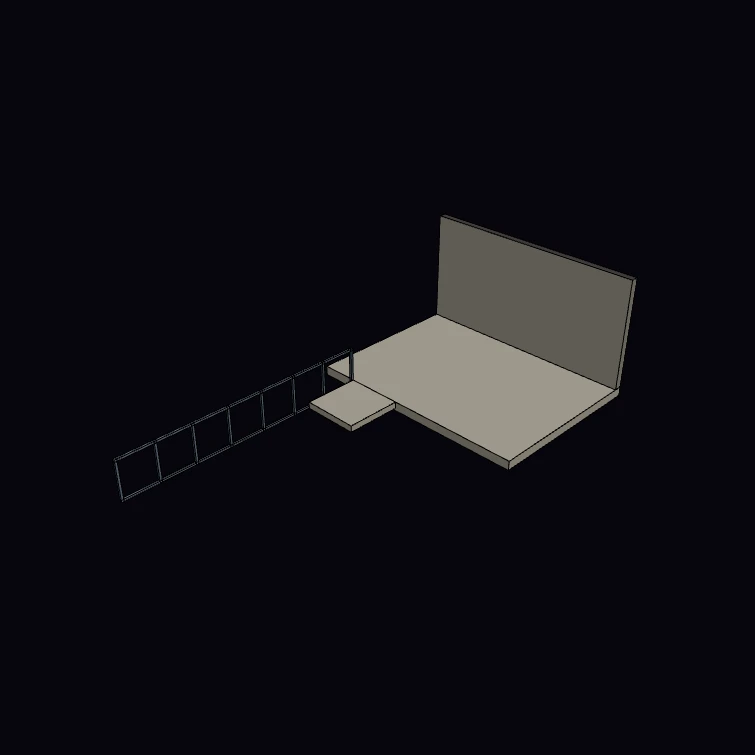
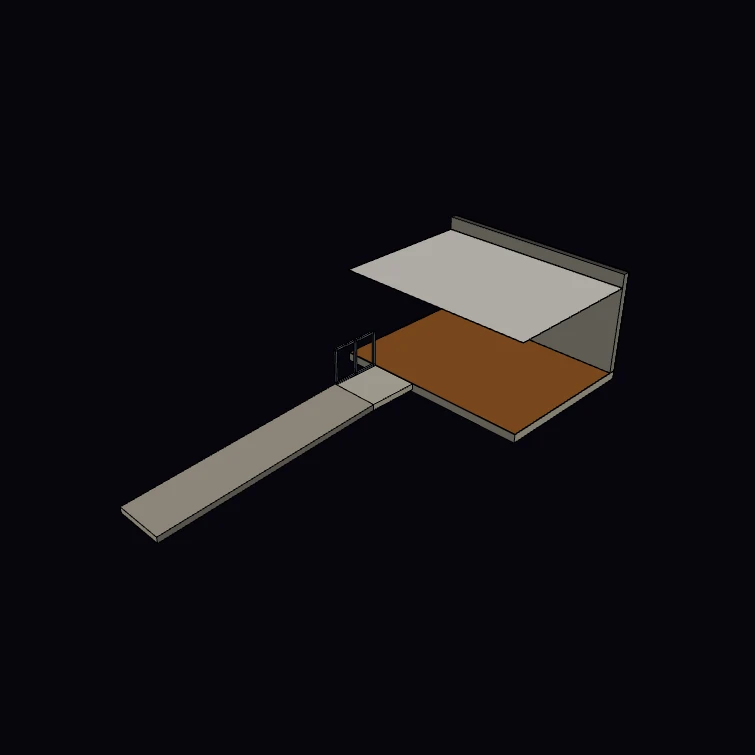
fix(playground): correct bim example element placements
Element thickness and width extrude along local +Y (axisZ x axisX), which
is world -X for Y-running elements. Three examples placed such elements
expecting +X:

- bim-spaces-zones: the studio divider wall sat inside Studio 01's space
  volume (z-fighting) leaving the 150 mm gap empty; moved to fill the gap.
- bim-finishes: the ramp ran beside its landing instead of onto it and
  climbed through the landing top; the horizontal guardrail floated above
  the sloped run; the flooring and ceiling coverings ran through the wall.
  Ramp now ends flush at the landing, the guardrail stands on the landing's
  open edge, and both coverings stop at the wall's inner face.
- bim-datacenter: the east wall sat inside the hall, clipped by the raised
  floor and the east CRAHs; moved outside the footprint with the base slab
  extended to carry both walls.

Also corrects the bim-space-volume comment that claimed side walls extrude
inward. Thumbnails and the datacenter turntable regenerated.

Changed region(s): [[0.1523, 0.2742, 0.853, 0.7311], [0.1523, 0.5788, 0.2132, 0.6093]]

diff --git a/apps/playground/src/lib/examples/bim.ts b/apps/playground/src/lib/examples/bim.ts
@@ -488,7 +488,9 @@ model.aggregate(building, storey);
 const L = 4000, W = 3000, H = 2700, T = 200;
 // A cutaway enclosure: three walls (back + two sides) with the front wall removed,
 // so the tinted space reads as a volume nested *inside* the room rather than a slab
-// floating on top. Each side wall extrudes its thickness inward (toward the room).
+// floating on top. Wall thickness extrudes along local +Y (= axisZ x axisX, which
+// is -X for the Y-running sides), placing all three interior faces flush with the
+// space at x = T, x = L - T and y = W - T.
 const wallDefs: { origin: [number, number, number]; axisX: [number, number, number]; len: number }[] = [
   { origin: [T, W - T, 0], axisX: [1, 0, 0], len: L - 2 * T }, // back, between the sides
   { origin: [T, 0, 0], axisX: [0, 1, 0], len: W },             // left side, full depth
@@ -1424,9 +1426,11 @@ for (const dept of departments) {
 }
 
 // Dividing walls between the studios and along the back, so the spaces read as
-// rooms rather than floating blocks.
+// rooms rather than floating blocks. Wall thickness extrudes along local +Y
+// (= axisZ x axisX, which is -X for the Y-running divider), so its origin sits
+// on the east edge of the 150 mm gap between the studios.
 for (const d of [
-  { origin: [5200, 0, 0] as [number, number, number], axisX: [0, 1, 0] as [number, number, number], len: 4800 },
+  { origin: [5350, 0, 0] as [number, number, number], axisX: [0, 1, 0] as [number, number, number], len: 4800 },
   { origin: [0, 4800, 0] as [number, number, number], axisX: [1, 0, 0] as [number, number, number], len: 10550 },
 ]) {
   const wall = model.addWall({
@@ -1556,10 +1560,11 @@ model.placeIn(wall.value, storeyId);
 
 // Three coverings, each a separate element with its own thickness and material:
 // the floor finish on top of the slab, the ceiling below the soffit, and
-// external cladding on the wall face.
+// external cladding on the wall face. Floor and ceiling stop at the wall's
+// inner face (width W - T) rather than running through the wall.
 const flooring = model.addCovering({
   length: L,
-  width: W,
+  width: W - T,
   thickness: 18,
   origin: [0, 0, RISE],
   axisX: [1, 0, 0],
@@ -1572,7 +1577,7 @@ model.placeIn(flooring.value, storeyId);
 
 const ceiling = model.addCovering({
   length: L,
-  width: W,
+  width: W - T,
   thickness: 12,
   origin: [0, 0, RISE + H - 400],
   axisX: [1, 0, 0],
@@ -1601,7 +1606,10 @@ if (!cladding.ok) throw cladding.error;
 model.placeIn(cladding.value, storeyId);
 
 // A 1:15 ramp reaching the threshold, plus its top landing. slope is rise over
-// run, so the run follows from the rise the ramp has to climb.
+// run, so the run follows from the rise the ramp has to climb. Flight width
+// extrudes along local +Y (= axisZ x axisX, -X for this Y-running flight), so
+// the origin sits on the ramp's east edge; the run ends where the landing
+// begins, meeting its top flush at z = RISE.
 const SLOPE = 1 / 15;
 const RUN = RISE / SLOPE;
 const ramp = model.addRamp({
@@ -1614,7 +1622,7 @@ const ramp = model.addRamp({
       length: RUN,
       slope: SLOPE,
       thickness: 180,
-      origin: [1000, -RUN, 0],
+      origin: [2500, -RUN - 1500, 0],
       axisX: [0, 1, 0],
       axisZ: [0, 0, 1],
       materialName: 'Concrete',
@@ -1638,12 +1646,14 @@ const landing = model.addSlab({
 if (!landing.ok) throw landing.error;
 model.placeIn(landing.value, storeyId);
 
-// A posted guardrail along the open edge of the ramp run.
+// A posted guardrail on the landing's open west edge. Railings are horizontal
+// bodies, so the sloped run itself stays unrailed (the switchback-stair example
+// rails only its flat landing for the same reason).
 const rail = model.addRailing({
-  length: RUN,
+  length: 1500,
   height: 1100,
   thickness: 60,
-  origin: [1000, -RUN, RISE - 180],
+  origin: [1060, -1500, RISE],
   axisX: [0, 1, 0],
   axisZ: [0, 0, 1],
   predefinedType: 'GUARDRAIL',
@@ -1737,9 +1747,10 @@ const CRAH = { kW: 74.6, airM3h: 15000, w: 2050, d: 890, h: 1970 }; // chilled-w
 const RPP_KVA = 150; // row-end panel; each feed alone carries its row (80 kW at 0.9 pf)
 const BUS_A = 250; // track busway, 415 V 3-phase, A + B runs per row
 
-// Structural slab, then the access floor 600 above it.
+// Structural slab (200 past the hall on the walled sides, so the walls bear on
+// it), then the access floor 600 above it.
 const base = unwrap(model.addSlab({
-  length: HALL_X, width: HALL_Y, thickness: 250, origin: [0, 0, -250],
+  length: HALL_X + 200, width: HALL_Y + 200, thickness: 250, origin: [0, 0, -250],
   axisX: [1, 0, 0], axisZ: [0, 0, 1], predefinedType: 'BASESLAB', materialName: 'Concrete',
 }));
 model.placeIn(base, storeyId);
@@ -1750,10 +1761,13 @@ const raised = unwrap(model.addSlab({
 model.placeIn(raised, storeyId);
 
 // Two of the four hall walls, so the interior stays readable in the viewer.
+// Thickness extrudes along axisZ x axisX (+Y for the north wall, -X for the
+// east), so both origins put the wall just OUTSIDE the hall footprint, inner
+// face flush with the tile field and clear of the raised floor and CRAHs.
 const WALL_H = 4400;
 for (const d of [
   { origin: [0, HALL_Y, 0] as [number, number, number], axisX: [1, 0, 0] as [number, number, number], len: HALL_X },
-  { origin: [HALL_X, 0, 0] as [number, number, number], axisX: [0, 1, 0] as [number, number, number], len: HALL_Y },
+  { origin: [HALL_X + 200, 0, 0] as [number, number, number], axisX: [0, 1, 0] as [number, number, number], len: HALL_Y },
 ]) {
   const wall = unwrap(model.addWall({
     length: d.len, height: WALL_H, thickness: 200,
